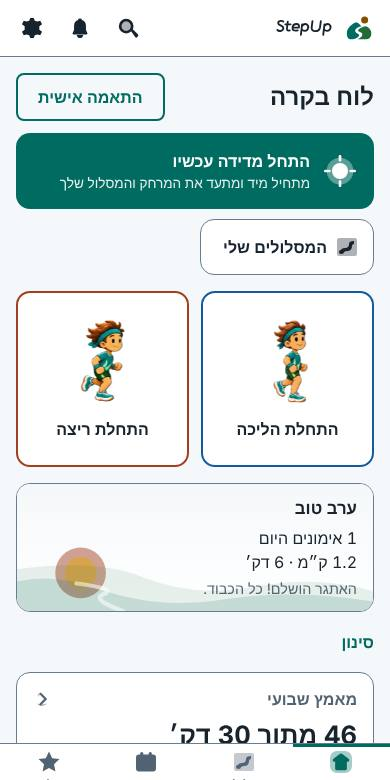
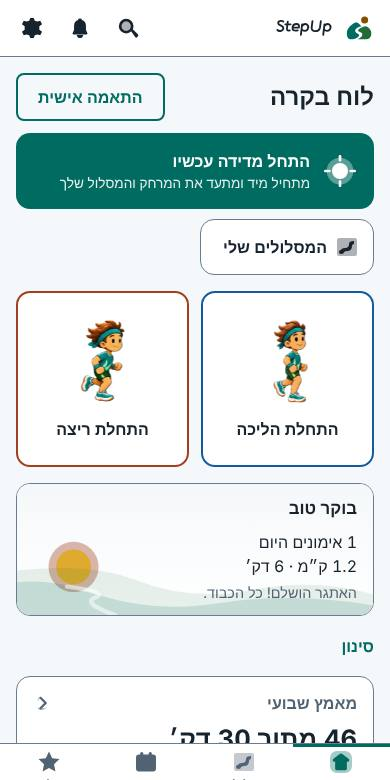
0.26.0: animated weather pictures (15 conditions from the illustrator's set) for the sky now on Home and Recommendations; the forecast also asks for the hourly weather code
Claude-Session: https://claude.ai/code/session_015MgUfxYvuaf2H4JGRA2gxD

Changed region(s): [[0.0308, 0.6462, 0.9538, 0.9538], [0.0308, 0.8615, 0.1231, 0.9231]]

diff --git a/web/sw.js b/web/sw.js
@@ -1,8 +1,8 @@
 // Offline-first service worker. VERSION is kept equal to version.json by scripts/bump-version.mjs (a unit test enforces it).
-const VERSION = '0.25.2';
+const VERSION = '0.26.0';
 const CACHE = `stepup-${VERSION}`;
 const SHELL = ['./', 'index.html', 'manifest.webmanifest', 'version.json', 'icon.svg', 'css/packs.css', 'css/app.css',
-  'js/app.js', 'js/routePlan.js', 'js/planner.js', 'js/planApi.js', 'js/ui/mapScreen.js', 'js/ui/planner.js', 'js/theme-boot.js', 'js/util.js', 'js/i18n.js', 'js/native.js', 'js/icons.js', 'js/brand.js', 'js/brandData.js', 'js/iconData.js', 'js/geo.js', 'js/workout.js', 'js/metronome.js', 'js/cadence.js', 'js/audio.js', 'js/format.js', 'js/store.js', 'js/ui/home.js', 'js/plan.js', 'js/indicators.js', 'js/appVersion.js', 'js/art.js', 'js/voice.js', 'js/records.js', 'js/facts.js', 'js/actions.js', 'js/guide.js', 'js/strings08.js', 'js/strings09.js', 'js/strings10.js', 'js/strings11.js', 'js/appShare.js', 'js/changelog.js', 'js/ui/shareApp.js', 'js/ui/whatsnew.js', 'js/permissions.js', 'js/ui/permissions.js', 'js/characterData.js', 'js/puppetRig.js', 'js/ui/puppet.js', 'js/ui/character.js', 'art/character/walk.webp', 'art/character/run.webp', 'art/character/pose-idle.webp', 'art/character/pose-jump.webp', 'art/character/pose-cheer.webp', 'art/character/pose-wave.webp', 'art/character/pose-rest.webp', 'art/character/pose-stretch.webp', 'art/character/pose-medal.webp', 'art/character/pose-trophy.webp', 'art/character/pose-podium.webp', 'art/character/pose-point.webp', 'art/character/pose-think.webp', 'art/character/pose-sit.webp', 'art/character/pose-sleep.webp', 'art/character/pose-rain.webp', 'js/ui/guide.js', 'art/workout/banner-afternoon-dark.svg', 'art/workout/banner-afternoon-light.svg', 'art/workout/banner-evening-dark.svg', 'art/workout/banner-evening-light.svg', 'art/workout/banner-morning-dark.svg', 'art/workout/banner-morning-light.svg', 'art/workout/banner-night-dark.svg', 'art/workout/banner-night-light.svg', 'art/workout/card-forest-dark.svg', 'art/workout/card-forest-light.svg', 'art/workout/card-ocean-dark.svg', 'art/workout/card-ocean-light.svg', 'art/workout/card-sunrise-dark.svg', 'art/workout/card-sunrise-light.svg', 'art/workout/count-1-dark.svg', 'art/workout/count-1-light.svg', 'art/workout/count-2-dark.svg', 'art/workout/count-2-light.svg', 'art/workout/count-3-dark.svg', 'art/workout/count-3-light.svg', 'art/workout/count-4-dark.svg', 'art/workout/count-4-light.svg', 'art/workout/count-5-dark.svg', 'art/workout/count-5-light.svg', 'art/workout/count-go-dark.svg', 'art/workout/count-go-light.svg', 'art/workout/hint-double-tap-dark.svg', 'art/workout/hint-double-tap-light.svg', 'art/workout/hint-volume-keys-dark.svg', 'art/workout/hint-volume-keys-light.svg', 'js/ui/workoutShare.js', 'js/shareCard.js', 'js/metrics.js', 'js/gpx.js', 'js/daypart.js', 'js/challenge.js', 'art/celebrate/avatar-frame-dark.svg', 'art/celebrate/avatar-frame-light.svg', 'art/celebrate/confetti-circle-dark.svg', 'art/celebrate/confetti-circle-light.svg', 'art/celebrate/confetti-curl-dark.svg', 'art/celebrate/confetti-curl-light.svg', 'art/celebrate/confetti-rectangle-dark.svg', 'art/celebrate/confetti-rectangle-light.svg', 'art/celebrate/confetti-star-dark.svg', 'art/celebrate/confetti-star-light.svg', 'art/celebrate/confetti-triangle-dark.svg', 'art/celebrate/confetti-triangle-light.svg', 'art/celebrate/distance-record-dark.svg', 'art/celebrate/distance-record-light.svg', 'art/celebrate/fastest-kilometre-dark.svg', 'art/celebrate/fastest-kilometre-light.svg', 'art/celebrate/forest-dark.svg', 'art/celebrate/forest-light.svg', 'art/celebrate/laurel-dark.svg', 'art/celebrate/laurel-light.svg', 'art/celebrate/longest-streak-dark.svg', 'art/celebrate/longest-streak-light.svg', 'art/celebrate/medal-dark.svg', 'art/celebrate/medal-light.svg', 'art/celebrate/most-workouts-week-dark.svg', 'art/celebrate/most-workouts-week-light.svg', 'art/celebrate/ocean-dark.svg', 'art/celebrate/ocean-light.svg', 'art/celebrate/pace-record-dark.svg', 'art/celebrate/pace-record-light.svg', 'art/celebrate/podium-floor-dark.svg', 'art/celebrate/podium-floor-light.svg', 'art/celebrate/podium-steps-dark.svg', 'art/celebrate/podium-steps-light.svg', 'art/celebrate/rays-dark.svg', 'art/celebrate/rays-light.svg', 'art/celebrate/ribbon-dark.svg', 'art/celebrate/ribbon-light.svg', 'art/celebrate/sunrise-dark.svg', 'art/celebrate/sunrise-light.svg', 'art/celebrate/trophy-dark.svg', 'art/celebrate/trophy-light.svg', 'js/podiumCard.js', 'js/ui/podium.js', 'js/mapView.js', 'js/ui/maptiles.js', 'js/backup.js', 'js/ui/backup.js', 'art/badges/almost-distance-dark.svg', 'art/badges/almost-distance-light.svg', 'art/badges/almost-record-dark.svg', 'art/badges/almost-record-light.svg', 'art/badges/faster-last-dark.svg', 'art/badges/faster-last-light.svg', 'art/badges/fastest-km-dark.svg', 'art/badges/fastest-km-light.svg', 'art/badges/new-record-dark.svg', 'art/badges/new-record-light.svg', 'art/badges/passed-distance-dark.svg', 'art/badges/passed-distance-light.svg', 'art/onboarding/caught-up-dark.svg', 'art/onboarding/caught-up-light.svg', 'art/onboarding/no-plan-dark.svg', 'art/onboarding/no-plan-light.svg', 'art/onboarding/no-routes-dark.svg', 'art/onboarding/no-routes-light.svg', 'art/onboarding/no-workouts-dark.svg', 'art/onboarding/no-workouts-light.svg', 'art/onboarding/offline-dark.svg', 'art/onboarding/offline-light.svg', 'art/onboarding/welcome-dark.svg', 'art/onboarding/welcome-light.svg', 'art/weather/clear-dark.svg', 'art/weather/clear-light.svg', 'art/weather/cloudy-dark.svg', 'art/weather/cloudy-light.svg', 'art/weather/cold-dark.svg', 'art/weather/cold-light.svg', 'art/weather/hot-dark.svg', 'art/weather/hot-light.svg', 'art/weather/rain-dark.svg', 'art/weather/rain-light.svg', 'art/weather/windy-dark.svg', 'art/weather/windy-light.svg', 'js/update.js', 'js/strings07.js', 'js/ui/about.js', 'js/strings06.js', 'js/ui/plan.js', 'js/schedule.js', 'js/widgetData.js', 'js/syncNative.js', 'js/strings05.js', 'js/route.js', 'js/routeReco.js', 'js/strings04.js', 'js/ui/routes.js', 'js/ui/livemap.js', 'js/forecast.js', 'js/reco.js', 'js/weatherApi.js', 'js/strings03.js', 'js/ui/reco.js', 'js/stats.js', 'js/steps.js', 'js/effort.js', 'js/reminders.js', 'js/alerts.js', 'js/search.js', 'js/charts.js', 'js/reminderLoop.js', 'js/strings02.js', 'js/ui/dashboard.js', 'js/ui/alerts.js', 'js/ui/search.js', 'js/ui/notify.js', 'js/ui/settings.js', 'js/ui/history.js', 'js/ui/workout.js', 'js/ui/rhythm.js',
+  'js/app.js', 'js/routePlan.js', 'js/planner.js', 'js/planApi.js', 'js/ui/mapScreen.js', 'js/ui/planner.js', 'js/theme-boot.js', 'js/util.js', 'js/i18n.js', 'js/native.js', 'js/icons.js', 'js/brand.js', 'js/brandData.js', 'js/iconData.js', 'js/geo.js', 'js/workout.js', 'js/metronome.js', 'js/cadence.js', 'js/audio.js', 'js/format.js', 'js/store.js', 'js/ui/home.js', 'js/plan.js', 'js/indicators.js', 'js/appVersion.js', 'js/art.js', 'js/voice.js', 'js/records.js', 'js/facts.js', 'js/actions.js', 'js/guide.js', 'js/strings08.js', 'js/strings09.js', 'js/strings10.js', 'js/strings11.js', 'js/appShare.js', 'js/changelog.js', 'js/ui/shareApp.js', 'js/ui/whatsnew.js', 'js/permissions.js', 'js/ui/permissions.js', 'js/characterData.js', 'js/puppetRig.js', 'js/ui/puppet.js', 'js/ui/character.js', 'art/character/walk.webp', 'art/character/run.webp', 'art/character/pose-idle.webp', 'art/character/pose-jump.webp', 'art/character/pose-cheer.webp', 'art/character/pose-wave.webp', 'art/character/pose-rest.webp', 'art/character/pose-stretch.webp', 'art/character/pose-medal.webp', 'art/character/pose-trophy.webp', 'art/character/pose-podium.webp', 'art/character/pose-point.webp', 'art/character/pose-think.webp', 'art/character/pose-sit.webp', 'art/character/pose-sleep.webp', 'art/character/pose-rain.webp', 'js/weatherAnim.js', 'js/weatherAnimData.js', 'js/ui/skynow.js', 'art/weather-anim/clear_day.webp', 'art/weather-anim/clear_night.webp', 'art/weather-anim/drizzle_day.webp', 'art/weather-anim/fog_day.webp', 'art/weather-anim/freezing_rain_day.webp', 'art/weather-anim/hail_day.webp', 'art/weather-anim/heavy_rain_day.webp', 'art/weather-anim/mostly_clear_day.webp', 'art/weather-anim/mostly_clear_night.webp', 'art/weather-anim/overcast_day.webp', 'art/weather-anim/partly_cloudy_day.webp', 'art/weather-anim/partly_cloudy_night.webp', 'art/weather-anim/rain_day.webp', 'art/weather-anim/snow_day.webp', 'art/weather-anim/thunderstorm_day.webp', 'js/ui/guide.js', 'art/workout/banner-afternoon-dark.svg', 'art/workout/banner-afternoon-light.svg', 'art/workout/banner-evening-dark.svg', 'art/workout/banner-evening-light.svg', 'art/workout/banner-morning-dark.svg', 'art/workout/banner-morning-light.svg', 'art/workout/banner-night-dark.svg', 'art/workout/banner-night-light.svg', 'art/workout/card-forest-dark.svg', 'art/workout/card-forest-light.svg', 'art/workout/card-ocean-dark.svg', 'art/workout/card-ocean-light.svg', 'art/workout/card-sunrise-dark.svg', 'art/workout/card-sunrise-light.svg', 'art/workout/count-1-dark.svg', 'art/workout/count-1-light.svg', 'art/workout/count-2-dark.svg', 'art/workout/count-2-light.svg', 'art/workout/count-3-dark.svg', 'art/workout/count-3-light.svg', 'art/workout/count-4-dark.svg', 'art/workout/count-4-light.svg', 'art/workout/count-5-dark.svg', 'art/workout/count-5-light.svg', 'art/workout/count-go-dark.svg', 'art/workout/count-go-light.svg', 'art/workout/hint-double-tap-dark.svg', 'art/workout/hint-double-tap-light.svg', 'art/workout/hint-volume-keys-dark.svg', 'art/workout/hint-volume-keys-light.svg', 'js/ui/workoutShare.js', 'js/shareCard.js', 'js/metrics.js', 'js/gpx.js', 'js/daypart.js', 'js/challenge.js', 'art/celebrate/avatar-frame-dark.svg', 'art/celebrate/avatar-frame-light.svg', 'art/celebrate/confetti-circle-dark.svg', 'art/celebrate/confetti-circle-light.svg', 'art/celebrate/confetti-curl-dark.svg', 'art/celebrate/confetti-curl-light.svg', 'art/celebrate/confetti-rectangle-dark.svg', 'art/celebrate/confetti-rectangle-light.svg', 'art/celebrate/confetti-star-dark.svg', 'art/celebrate/confetti-star-light.svg', 'art/celebrate/confetti-triangle-dark.svg', 'art/celebrate/confetti-triangle-light.svg', 'art/celebrate/distance-record-dark.svg', 'art/celebrate/distance-record-light.svg', 'art/celebrate/fastest-kilometre-dark.svg', 'art/celebrate/fastest-kilometre-light.svg', 'art/celebrate/forest-dark.svg', 'art/celebrate/forest-light.svg', 'art/celebrate/laurel-dark.svg', 'art/celebrate/laurel-light.svg', 'art/celebrate/longest-streak-dark.svg', 'art/celebrate/longest-streak-light.svg', 'art/celebrate/medal-dark.svg', 'art/celebrate/medal-light.svg', 'art/celebrate/most-workouts-week-dark.svg', 'art/celebrate/most-workouts-week-light.svg', 'art/celebrate/ocean-dark.svg', 'art/celebrate/ocean-light.svg', 'art/celebrate/pace-record-dark.svg', 'art/celebrate/pace-record-light.svg', 'art/celebrate/podium-floor-dark.svg', 'art/celebrate/podium-floor-light.svg', 'art/celebrate/podium-steps-dark.svg', 'art/celebrate/podium-steps-light.svg', 'art/celebrate/rays-dark.svg', 'art/celebrate/rays-light.svg', 'art/celebrate/ribbon-dark.svg', 'art/celebrate/ribbon-light.svg', 'art/celebrate/sunrise-dark.svg', 'art/celebrate/sunrise-light.svg', 'art/celebrate/trophy-dark.svg', 'art/celebrate/trophy-light.svg', 'js/podiumCard.js', 'js/ui/podium.js', 'js/mapView.js', 'js/ui/maptiles.js', 'js/backup.js', 'js/ui/backup.js', 'art/badges/almost-distance-dark.svg', 'art/badges/almost-distance-light.svg', 'art/badges/almost-record-dark.svg', 'art/badges/almost-record-light.svg', 'art/badges/faster-last-dark.svg', 'art/badges/faster-last-light.svg', 'art/badges/fastest-km-dark.svg', 'art/badges/fastest-km-light.svg', 'art/badges/new-record-dark.svg', 'art/badges/new-record-light.svg', 'art/badges/passed-distance-dark.svg', 'art/badges/passed-distance-light.svg', 'art/onboarding/caught-up-dark.svg', 'art/onboarding/caught-up-light.svg', 'art/onboarding/no-plan-dark.svg', 'art/onboarding/no-plan-light.svg', 'art/onboarding/no-routes-dark.svg', 'art/onboarding/no-routes-light.svg', 'art/onboarding/no-workouts-dark.svg', 'art/onboarding/no-workouts-light.svg', 'art/onboarding/offline-dark.svg', 'art/onboarding/offline-light.svg', 'art/onboarding/welcome-dark.svg', 'art/onboarding/welcome-light.svg', 'art/weather/clear-dark.svg', 'art/weather/clear-light.svg', 'art/weather/cloudy-dark.svg', 'art/weather/cloudy-light.svg', 'art/weather/cold-dark.svg', 'art/weather/cold-light.svg', 'art/weather/hot-dark.svg', 'art/weather/hot-light.svg', 'art/weather/rain-dark.svg', 'art/weather/rain-light.svg', 'art/weather/windy-dark.svg', 'art/weather/windy-light.svg', 'js/update.js', 'js/strings07.js', 'js/ui/about.js', 'js/strings06.js', 'js/ui/plan.js', 'js/schedule.js', 'js/widgetData.js', 'js/syncNative.js', 'js/strings05.js', 'js/route.js', 'js/routeReco.js', 'js/strings04.js', 'js/ui/routes.js', 'js/ui/livemap.js', 'js/forecast.js', 'js/reco.js', 'js/weatherApi.js', 'js/strings03.js', 'js/ui/reco.js', 'js/stats.js', 'js/steps.js', 'js/effort.js', 'js/reminders.js', 'js/alerts.js', 'js/search.js', 'js/charts.js', 'js/reminderLoop.js', 'js/strings02.js', 'js/ui/dashboard.js', 'js/ui/alerts.js', 'js/ui/search.js', 'js/ui/notify.js', 'js/ui/settings.js', 'js/ui/history.js', 'js/ui/workout.js', 'js/ui/rhythm.js',
   'icons/icon-192.png', 'icons/icon-512.png', 'icons/icon-maskable-512.png'];
 
 self.addEventListener('install', (e) => { e.waitUntil(caches.open(CACHE).then((c) => c.addAll(SHELL.map((u) => new Request(u, { cache: 'reload' })))).then(() => self.skipWaiting())); });

diff --git a/web/js/strings08.js b/web/js/strings08.js
@@ -13,7 +13,7 @@ export const EN = {
   g_drill_t: 'Details of a number', g_drill_x: 'Every widget opens to a chart, the numbers behind it and the workouts that make it up. The weekly effort bar follows your own history, never rises more than about 10 % a week and explains itself.',
   g_routes_t: 'Routes', g_routes_x: 'Save a finished workout as a route; StepUp recognises when you repeat it, shows progress per route and suggests the best route for the hour and weather. Mark a route one-time (a trip) to keep it out of the statistics. Follow a route with a ghost of your best attempt.',
   g_plan_t: 'Training plan', g_plan_x: 'Build a plan from your goal, level, sessions per week and the kinds of workouts. It grows gently, completes sessions when you do a matching workout, offers to move missed ones and can remind you.',
-  g_reco_t: 'Recommendations', g_reco_x: 'The best times to walk or run from your routine and (if you allow it) the weather forecast, plus advice from your effort bar, steps and streak. The forecast needs your approximate location and is off until you agree.',
+  g_reco_t: 'Recommendations', g_reco_x: 'The best times to walk or run from your routine and (if you allow it) the weather forecast, plus advice from your effort bar, steps and streak. The forecast needs your approximate location and is off until you agree. With online weather on, a small animated picture shows the sky now.',
   g_alerts_t: 'Alerts', g_alerts_x: 'Reminders, nudges when you have not moved, and explanations when a workout was far beyond your bar: what happened, why it matters and what to do. Android can deliver them even when the app is closed.',
   g_search_t: 'Search everything', g_search_x: 'One box finds screens, settings, actions ("start a run", "backup"), this guide, your workouts, routes, alerts and answers about your data ("longest run", "this month"). Press Enter to open the first result.',
   g_settings_t: 'Settings', g_settings_x: 'Sections open and close: look and language, about you, effort, recommendations, plan, reminders, cues, hands-free, countdown, street map, backup and updates. Searching finds any setting and opens its section.',
@@ -42,7 +42,7 @@ export const HE = {
   g_drill_t: 'פירוט של מספר', g_drill_x: 'כל ווידג׳ט נפתח לגרף, למספרים שמאחוריו ולאימונים שמרכיבים אותו. מד המאמץ השבועי נשען על ההיסטוריה שלכם, לא עולה ביותר מכ-10% בשבוע ומסביר את עצמו.',
   g_routes_t: 'מסלולים', g_routes_x: 'שומרים אימון שהסתיים כמסלול; StepUp מזהה כשחוזרים עליו, מציגה התקדמות לכל מסלול ומציעה את המסלול הטוב ביותר לשעה ולמזג האוויר. מסלול חד-פעמי (טיול) לא נכנס לסטטיסטיקה. אפשר לעקוב אחרי מסלול עם רוח של הניסיון הטוב ביותר שלכם.',
   g_plan_t: 'תוכנית אימון', g_plan_x: 'בונים תוכנית לפי מטרה, רמה, אימונים בשבוע וסוגי האימונים. היא גדלה בעדינות, משלימה אימון כשעושים אימון מתאים, מציעה להזיז אימון שהוחמץ ויכולה להזכיר.',
-  g_reco_t: 'המלצות', g_reco_x: 'הזמנים הטובים ביותר להליכה או לריצה לפי השגרה שלכם ו(אם אישרתם) תחזית מזג האוויר, וגם עצות ממד המאמץ, מהצעדים ומהרצף. התחזית צריכה את המיקום המשוער שלכם וכבויה עד שמאשרים.',
+  g_reco_t: 'המלצות', g_reco_x: 'הזמנים הטובים ביותר להליכה או לריצה לפי השגרה שלכם ו(אם אישרתם) תחזית מזג האוויר, וגם עצות ממד המאמץ, מהצעדים ומהרצף. התחזית צריכה את המיקום המשוער שלכם וכבויה עד שמאשרים. כשמזג האוויר המקוון פעיל, תמונה מונפשת קטנה מציגה את מצב השמיים עכשיו.',
   g_alerts_t: 'התראות', g_alerts_x: 'תזכורות, דחיפות כשלא זזתם, והסברים כשאימון היה גדול בהרבה ממד המאמץ: מה קרה, למה זה חשוב ומה לעשות. באנדרואיד אפשר לקבל אותן גם כשהאפליקציה סגורה.',
   g_search_t: 'חיפוש בכל דבר', g_search_x: 'תיבה אחת מוצאת מסכים, הגדרות, פעולות ("התחלת ריצה", "גיבוי"), את המדריך הזה, אימונים, מסלולים, התראות ותשובות על הנתונים שלכם ("הריצה הארוכה ביותר", "החודש"). Enter פותח את התוצאה הראשונה.',
   g_settings_t: 'הגדרות', g_settings_x: 'אזורים שנפתחים ונסגרים: מראה ושפה, עליכם, מאמץ, המלצות, תוכנית, תזכורות, אינדיקציות, ידיים חופשיות, ספירה לאחור, מפת רחובות, גיבוי ועדכונים. החיפוש מוצא כל הגדרה ופותח את האזור שלה.',

diff --git a/web/js/forecast.js b/web/js/forecast.js
@@ -3,7 +3,7 @@
 import { clamp } from './util.js';
 
 export const API = 'https://api.open-meteo.com/v1/forecast';
-export const HOURLY = ['temperature_2m', 'apparent_temperature', 'precipitation_probability', 'precipitation', 'wind_speed_10m', 'uv_index', 'is_day'];
+export const HOURLY = ['temperature_2m', 'apparent_temperature', 'precipitation_probability', 'precipitation', 'wind_speed_10m', 'uv_index', 'is_day', 'weather_code'];
 export const MAX_HOURS = 72;
 
 /** Rounds a coordinate to 2 decimals (about 1 km): enough for weather, too coarse to identify a home. */
@@ -15,7 +15,7 @@ export function forecastUrl(lat, lon) {
   return `${API}?latitude=${roundCoord(lat)}&longitude=${roundCoord(lon)}&hourly=${HOURLY.join(',')}&forecast_days=3&timezone=GMT&timeformat=unixtime`; // GMT + epoch seconds: no timezone or DST confusion between the place and the phone
 }
 
-/** json -> [{ t (ms, hour start), temp, feels (deg C), rainP (0-100), rain (mm), wind (km/h), uv, day (bool) }], oldest first, bounded. */
+/** json -> [{ t (ms, hour start), temp, feels (deg C), rainP (0-100), rain (mm), wind (km/h), uv, day (bool), code (WMO weather code 0-99, -1 = unknown) }], oldest first, bounded. */
 export function normalizeForecast(json) {
   const h = json && typeof json === 'object' ? json.hourly : null;
   if (!h || !Array.isArray(h.time)) return [];
@@ -24,7 +24,7 @@ export function normalizeForecast(json) {
   for (let i = 0; i < Math.min(h.time.length, MAX_HOURS); i++) {
     const t = Number.isFinite(h.time[i]) ? Math.floor(h.time[i] / 3600) * 3600000 : NaN; if (!(t > 1e12 && t < 4e12)) continue; // epoch seconds -> the start of that hour
     const temp = num(h.temperature_2m, i, -60, 60, NaN); if (!Number.isFinite(temp)) continue;
-    out.push({ t, temp, feels: num(h.apparent_temperature, i, -70, 70, temp), rainP: num(h.precipitation_probability, i, 0, 100), rain: num(h.precipitation, i, 0, 200), wind: num(h.wind_speed_10m, i, 0, 250), uv: num(h.uv_index, i, 0, 20), day: Number(h.is_day?.[i]) === 1 });
+    out.push({ t, temp, feels: num(h.apparent_temperature, i, -70, 70, temp), rainP: num(h.precipitation_probability, i, 0, 100), rain: num(h.precipitation, i, 0, 200), wind: num(h.wind_speed_10m, i, 0, 250), uv: num(h.uv_index, i, 0, 20), day: Number(h.is_day?.[i]) === 1, code: Number.isInteger(h.weather_code?.[i]) ? clamp(h.weather_code[i], 0, 99) : -1 });
   }
   return out;
 }
@@ -33,7 +33,7 @@ export function normalizeForecast(json) {
 export function sanitizeHours(list) {
   if (!Array.isArray(list)) return [];
   const n = (v, lo, hi) => (Number.isFinite(v) ? clamp(v, lo, hi) : 0);
-  return list.slice(0, MAX_HOURS).filter((h) => h && Number.isFinite(h.t) && h.t > 1e12 && h.t < 4e12 && Number.isFinite(h.temp)).map((h) => ({ t: h.t, temp: clamp(h.temp, -60, 60), feels: n(h.feels, -70, 70), rainP: n(h.rainP, 0, 100), rain: n(h.rain, 0, 200), wind: n(h.wind, 0, 250), uv: n(h.uv, 0, 20), day: h.day === true }));
+  return list.slice(0, MAX_HOURS).filter((h) => h && Number.isFinite(h.t) && h.t > 1e12 && h.t < 4e12 && Number.isFinite(h.temp)).map((h) => ({ t: h.t, temp: clamp(h.temp, -60, 60), feels: n(h.feels, -70, 70), rainP: n(h.rainP, 0, 100), rain: n(h.rain, 0, 200), wind: n(h.wind, 0, 250), uv: n(h.uv, 0, 20), day: h.day === true, code: Number.isInteger(h.code) ? clamp(h.code, -1, 99) : -1 }));
 }
 
 /** The weather during a workout from a forecast list: { tempC, cond } of the hour containing `ts`, or null when the list does not cover it. */
@@ -42,3 +42,8 @@ export function weatherAt(list, ts) {
 }
 /** One forecast hour as the weather record of a workout: { tempC, cond }. */
 export const weatherOfHour = (h) => ({ tempC: Math.round(h.temp), cond: h.rain > 0.2 || h.rainP >= 60 ? 'rain' : h.wind >= 30 ? 'windy' : 'clear' });
+
+/** The sky now: { tempC, code, day } of the hour containing `ts`, or null when the list does not cover it or has no weather code. */
+export function skyAt(list, ts) {
+  const h = list.find((x) => ts >= x.t && ts < x.t + 3600000); return h && h.code >= 0 ? { tempC: Math.round(h.temp), code: h.code, day: h.day } : null;
+}

diff --git a/tests/unit/weather-anim.test.js b/tests/unit/weather-anim.test.js
@@ -1,0 +1,34 @@
+import test from 'node:test';
+import assert from 'node:assert/strict';
+import { existsSync, readFileSync } from 'node:fs';
+import { conditionOf, known } from '../../web/js/weatherAnim.js';
+import { WEATHER_ANIM } from '../../web/js/weatherAnimData.js';
+import { normalizeForecast, sanitizeHours, skyAt, forecastUrl } from '../../web/js/forecast.js';
+import { STR } from '../../web/js/i18n.js';
+
+test('WMO codes map to the animated conditions; night only changes the three that have a night picture', () => {
+  assert.equal(conditionOf(0, true), 'clear_day'); assert.equal(conditionOf(0, false), 'clear_night'); assert.equal(conditionOf(1, false), 'mostly_clear_night'); assert.equal(conditionOf(2, false), 'partly_cloudy_night');
+  assert.equal(conditionOf(3, false), 'overcast_day', 'no night picture: the day one'); assert.equal(conditionOf(45, true), 'fog_day'); assert.equal(conditionOf(53, true), 'drizzle_day');
+  assert.equal(conditionOf(63, true), 'rain_day'); assert.equal(conditionOf(65, true), 'heavy_rain_day'); assert.equal(conditionOf(82, true), 'heavy_rain_day'); assert.equal(conditionOf(66, true), 'freezing_rain_day');
+  assert.equal(conditionOf(73, true), 'snow_day'); assert.equal(conditionOf(86, true), 'snow_day'); assert.equal(conditionOf(95, false), 'thunderstorm_day'); assert.equal(conditionOf(99, true), 'hail_day');
+  for (const bad of [-1, 4, 10, 100, NaN, undefined, '0']) assert.equal(conditionOf(bad, true), null, `code ${bad}`);
+  // every WMO code that Open-Meteo documents maps to a condition we have a picture for
+  for (const c of [0, 1, 2, 3, 45, 48, 51, 53, 55, 56, 57, 61, 63, 65, 66, 67, 71, 73, 75, 77, 80, 81, 82, 85, 86, 95, 96, 99]) for (const day of [true, false]) assert.ok(known(conditionOf(c, day)), `code ${c} day ${day}`);
+});
+
+test('every condition has its strip file, a name in both languages, and the strips stay small', () => {
+  assert.equal(WEATHER_ANIM.conditions.length, 15); let total = 0;
+  for (const c of WEATHER_ANIM.conditions) {
+    const f = `web/art/weather-anim/${c}.webp`; assert.ok(existsSync(f), f); total += readFileSync(f).length;
+    assert.ok(STR.en[`sky_${c}`] && STR.he[`sky_${c}`], `name of ${c} in both languages`);
+  }
+  assert.ok(total < 600 * 1024, `all strips ${Math.round(total / 1024)} KB (precached: keep them small)`);
+});
+
+test('forecast carries the weather code (clamped, -1 when missing) and skyAt finds the hour', () => {
+  assert.match(forecastUrl(32.08, 34.79), /hourly=[^&]*weather_code/);
+  const t0 = 1784084400, f = normalizeForecast({ hourly: { time: [t0, t0 + 3600, t0 + 7200], temperature_2m: [20, 21, 22], weather_code: [3, 250, 'x'], is_day: [1, 0, 1] } });
+  assert.deepEqual(f.map((h) => h.code), [3, 99, -1]);
+  assert.deepEqual(sanitizeHours([{ t: t0 * 1000, temp: 20, code: 61 }, { t: t0 * 1000 + 3600000, temp: 20, code: 'bad' }]).map((h) => h.code), [61, -1]);
+  assert.deepEqual(skyAt(f, t0 * 1000 + 100), { tempC: 20, code: 3, day: true }); assert.equal(skyAt(f, t0 * 1000 + 7300000), null, 'an hour without a code has no sky'); assert.equal(skyAt(f, 5), null);
+});

diff --git a/web/js/strings11.js b/web/js/strings11.js
@@ -3,11 +3,13 @@ export const EN = {
   shareTitle: 'Share StepUp', shareHint: 'Send a friend the web app (opens in any browser) and the Android app. Only the two links are sent - nothing about you.',
   shareWa: 'WhatsApp', shareMail: 'E-mail', shareMore: 'More...', shareCopy: 'Copy link', shareMailSubject: 'StepUp - walking and running tracker', shareClose: 'Close',
   setStepsKeep: 'Count my steps all day', setStepsKeepHint: 'Keeps a small, quiet notification so Android lets StepUp count steps while the app is closed and the widget stays current. Turn it off to count only while the app is open.',
+  skyNow: 'The sky now', sky_clear_day: 'Sunny', sky_clear_night: 'Clear night', sky_mostly_clear_day: 'Mostly sunny', sky_mostly_clear_night: 'Mostly clear', sky_partly_cloudy_day: 'Partly cloudy', sky_partly_cloudy_night: 'Partly cloudy', sky_overcast_day: 'Overcast', sky_fog_day: 'Fog', sky_drizzle_day: 'Drizzle', sky_rain_day: 'Rain', sky_heavy_rain_day: 'Heavy rain', sky_freezing_rain_day: 'Freezing rain', sky_snow_day: 'Snow', sky_thunderstorm_day: 'Thunderstorm', sky_hail_day: 'Hail',
   wnTitle: 'What is new in {v}', wnOpen: 'What is new', wnEarlier: 'Earlier versions', wnNone: 'Nothing listed for this version.', actWhatsNew: 'What is new in this version',
 };
 export const HE = {
   shareTitle: 'שיתוף StepUp', shareHint: 'שלחו לחבר את אפליקציית הרשת (נפתחת בכל דפדפן) ואת אפליקציית האנדרואיד. נשלחים רק שני הקישורים - שום דבר עליכם.',
   shareWa: 'וואטסאפ', shareMail: 'מייל', shareMore: 'עוד...', shareCopy: 'העתקת קישור', shareMailSubject: 'StepUp - מעקב הליכה וריצה', shareClose: 'סגירה',
   setStepsKeep: 'ספירת צעדים כל היום', setStepsKeepHint: 'מציג התראה קטנה ושקטה כדי ש-Android יאפשר ל-StepUp לספור צעדים כשהאפליקציה סגורה והווידג׳ט יישאר עדכני. כבו כדי לספור רק כשהאפליקציה פתוחה.',
+  skyNow: 'השמיים עכשיו', sky_clear_day: 'שמשי', sky_clear_night: 'לילה בהיר', sky_mostly_clear_day: 'שמשי ברובו', sky_mostly_clear_night: 'בהיר ברובו', sky_partly_cloudy_day: 'מעונן חלקית', sky_partly_cloudy_night: 'מעונן חלקית', sky_overcast_day: 'מעונן', sky_fog_day: 'ערפל', sky_drizzle_day: 'טפטוף', sky_rain_day: 'גשם', sky_heavy_rain_day: 'גשם חזק', sky_freezing_rain_day: 'גשם קפוא', sky_snow_day: 'שלג', sky_thunderstorm_day: 'סופת רעמים', sky_hail_day: 'ברד',
   wnTitle: 'מה חדש בגרסה {v}', wnOpen: 'מה חדש', wnEarlier: 'גרסאות קודמות', wnNone: 'אין פירוט לגרסה הזו.', actWhatsNew: 'מה חדש בגרסה הזו',
 };

diff --git a/web/js/weatherAnim.js b/web/js/weatherAnim.js
@@ -1,0 +1,29 @@
+// The animated weather pictures (the illustrator's frames, cut by scripts/make-weather-sprites.py): WMO weather code + day/night -> one of 15 looping strips.
+// Pure mapping (conditionOf) + one small element (a strip of 12 frames played with steps(), only while .anim-on: the calm switch and reduced motion stop it, see app.css).
+import { h } from './util.js';
+import { WEATHER_ANIM } from './weatherAnimData.js';
+
+const NIGHT = new Set(['clear', 'mostly_clear', 'partly_cloudy']); // only these three exist at night; the others are the same by day and by night
+/** WMO code (Open-Meteo) -> condition name, or null for an unknown code. */
+export function conditionOf(code, day = true) {
+  let c = null;
+  if (code === 0) c = 'clear'; else if (code === 1) c = 'mostly_clear'; else if (code === 2) c = 'partly_cloudy'; else if (code === 3) c = 'overcast';
+  else if (code === 45 || code === 48) c = 'fog';
+  else if (code === 51 || code === 53 || code === 55) c = 'drizzle';
+  else if (code === 56 || code === 57 || code === 66 || code === 67) c = 'freezing_rain';
+  else if (code === 61 || code === 63 || code === 80 || code === 81) c = 'rain';
+  else if (code === 65 || code === 82) c = 'heavy_rain';
+  else if ((code >= 71 && code <= 77) || code === 85 || code === 86) c = 'snow';
+  else if (code === 95) c = 'thunderstorm'; else if (code === 96 || code === 99) c = 'hail';
+  if (!c) return null;
+  return `${c}_${!day && NIGHT.has(c) ? 'night' : 'day'}`;
+}
+/** The strip's name for a condition (checked against the generated list), else null. */
+export const known = (cond) => (WEATHER_ANIM.conditions.includes(cond) ? cond : null);
+
+/** A looping weather picture, `size` px square. Decorative (alt=""). */
+export function weatherIcon(cond, size = 72, { animate = true } = {}) {
+  const c = known(cond); if (!c) return null;
+  return h('span', { class: `wxa${animate ? ' anim-on' : ''}`, 'data-cond': c, 'aria-hidden': 'true', style: { 'inline-size': `${size}px`, 'block-size': `${size}px`, '--ms': `${WEATHER_ANIM.ms}ms`, '--n': String(WEATHER_ANIM.frames) } },
+    h('img', { src: `art/weather-anim/${c}.webp`, alt: '', draggable: false, width: WEATHER_ANIM.size * WEATHER_ANIM.frames, height: WEATHER_ANIM.size }));
+}

diff --git a/web/js/ui/skynow.js b/web/js/ui/skynow.js
@@ -1,0 +1,20 @@
+// "The sky now": the animated weather picture with the temperature and a short word, from the forecast already in the cache (never a request of its own).
+import { h, setChildren } from '../util.js';
+import { t } from '../i18n.js';
+import { onlineOn, cachedForecast, fetchForecast, getLoc } from '../weatherApi.js';
+import { skyAt } from '../forecast.js';
+import { conditionOf, weatherIcon } from '../weatherAnim.js';
+
+/** A small row (picture, "18°", "Partly cloudy") or null when online weather is off, nothing is cached or the hour has no known sky. */
+export function skyNow(size = 64, now = Date.now()) {
+  if (!onlineOn()) return null;
+  const f = cachedForecast(now), sky = f?.length ? skyAt(f, now) : null, cond = sky ? conditionOf(sky.code, sky.day) : null, icon = cond ? weatherIcon(cond, size) : null;
+  return icon ? h('div', { class: 'skynow', role: 'group', 'aria-label': `${t('skyNow')}: ${sky.tempC}°, ${t(`sky_${cond}`)}` }, icon, h('div', null, h('b', { class: 'skytemp' }, `${sky.tempC}°`), h('span', { class: 'skytext' }, t(`sky_${cond}`)))) : null;
+}
+
+/** A place for the sky row that fills itself: at once from the cache, else after the forecast arrives (one cached request an hour, only with online weather on and a known position). */
+export function skySlot(size = 64, now = Date.now()) {
+  const slot = h('div', { class: 'skyslot' }), fill = () => { const e = skyNow(size, now); if (e) setChildren(slot, e); return !!e; };
+  if (!fill() && onlineOn() && getLoc()) fetchForecast({ now }).then(() => { if (slot.isConnected) fill(); }).catch(() => {});
+  return slot;
+}

diff --git a/tests/unit/reco.test.js b/tests/unit/reco.test.js
@@ -15,7 +15,7 @@ test('forecast: URL has only rounded coordinates; hostile answers are normalised
   const f = normalizeForecast({ hourly: { time: [1784084400, 'garbage', 1784088000], temperature_2m: [20, 21, 'x'], apparent_temperature: [22, 0, 0], precipitation_probability: [500, 0, 0], precipitation: [0, 0, 0], wind_speed_10m: [10, 0, 0], uv_index: [3, 0, 0], is_day: [1, 1, 1] } });
   assert.equal(f.length, 1); assert.equal(f[0].feels, 22); assert.equal(f[0].rainP, 100, 'clamped'); assert.equal(f[0].day, true);
   assert.deepEqual(normalizeForecast(null), []); assert.deepEqual(normalizeForecast({ hourly: { time: 'x' } }), []); assert.equal(normalizeForecast({ hourly: { time: new Array(500).fill(1784084400), temperature_2m: new Array(500).fill(20) } }).length, 72);
-  assert.equal(f[0].t % 3600000, 0, 'aligned to the hour'); assert.deepEqual(sanitizeHours([{ t: 1.8e12, temp: 70, feels: 'x', rainP: 500, rain: 0, wind: 0, uv: 0, day: 1 }, { t: 5, temp: 1 }, null]), [{ t: 1.8e12, temp: 60, feels: 0, rainP: 100, rain: 0, wind: 0, uv: 0, day: false }]);
+  assert.equal(f[0].t % 3600000, 0, 'aligned to the hour'); assert.deepEqual(sanitizeHours([{ t: 1.8e12, temp: 70, feels: 'x', rainP: 500, rain: 0, wind: 0, uv: 0, day: 1 }, { t: 5, temp: 1 }, null]), [{ t: 1.8e12, temp: 60, feels: 0, rainP: 100, rain: 0, wind: 0, uv: 0, day: false, code: -1 }]);
 });
 test('comfort: cool dry calm daylight is great; heat, rain, wind, darkness and UV reduce it, and the worst problem is named first', () => {
   const ok = { feels: 14, rainP: 0, rain: 0, wind: 6, uv: 2, day: true };

diff --git a/web/js/ui/reco.js b/web/js/ui/reco.js
@@ -1,6 +1,7 @@
 // Recommendations: the best times to walk/run from the forecast + the person's routine, and recommendations from the effort bar, steps and streak.
 // Screen (#/reco), dashboard widget summary and the shared body used by the drill-down. Logic lives in reco.js (pure); the network in weatherApi.js.
 import { weatherBanner } from '../art.js';
+import { skyNow, skySlot } from './skynow.js';
 import { weatherAt } from '../forecast.js';
 import { h, setChildren } from '../util.js';
 import { t } from '../i18n.js';
@@ -91,7 +92,7 @@ export function renderReco() {
   const draw = () => { box.alive = true; mountReco(box, area, { redraw: draw }); chips(); };
   const bar = h('div', { class: 'chips', role: 'group', 'aria-label': t('recoTitle') });
   const chips = () => setChildren(bar, AREAS.map((a) => h('button', { type: 'button', class: 'chip', 'data-area': a, 'aria-pressed': String(a === area), onclick: () => { area = a; draw(); } }, t(AREA_KEY[a]))));
-  const f = onlineOn() ? cachedForecast(Date.now()) : null, banner = f?.length ? weatherBanner(weatherAt(f, Date.now())) : null;
+  const f = onlineOn() ? cachedForecast(Date.now()) : null, banner = f?.length ? skyNow(96) || weatherBanner(weatherAt(f, Date.now())) : onlineOn() ? skySlot(96) : null; // the animated sky when the forecast knows it, else the picture of the kit
   setChildren(el, h('h1', null, t('recoTitle')), banner, bar, box); draw();
   el.cleanup = () => { box.alive = false; };
   return el;

diff --git a/web/css/app.css b/web/css/app.css
@@ -287,3 +287,9 @@ html[data-calm="1"] .char-cycle img { animation: none !important; } @media (pref
 .updbox { display: grid; gap: 8px; margin-block: 10px; } .updbox .row { display: flex; align-items: center; justify-content: space-between; gap: 10px; flex-wrap: wrap; } .updbox .note:empty, .updbox .upd-extra:empty { display: none; } .updbox progress { inline-size: 100%; block-size: 10px; accent-color: var(--primary); }
 
 .sheetbtns { display: flex; flex-wrap: wrap; gap: 10px; margin-block: 12px; } .permsheet details { margin-block: 12px; } .permsheet ul { padding-inline-start: 20px; }
+
+/* the animated weather pictures: a strip of 12 frames played with steps(); only while .anim-on (calm switch and reduced motion stop it) */
+.wxa { direction: ltr; overflow: hidden; position: relative; display: inline-block; flex: none; } .wxa img { display: block; block-size: 100%; inline-size: calc(var(--n) * 100%); max-inline-size: none; }
+.wxa.anim-on img { animation: wxa-strip var(--ms, 1800ms) steps(12) infinite; } @keyframes wxa-strip { to { transform: translateX(-100%); } }
+html[data-calm="1"] .wxa img { animation: none !important; } @media (prefers-reduced-motion: reduce) { .wxa img { animation: none !important; } }
+.skynow { display: flex; align-items: center; gap: 12px; margin-block: 6px; } .skynow .skytemp { font-size: 1.5rem; margin-inline-end: 8px; } .skynow .skytext { color: var(--muted); }

diff --git a/web/js/changelog.js b/web/js/changelog.js
@@ -1,5 +1,8 @@
 // "What is new", in the app's two languages: user-facing bullets only, newest first. docs/CHANGELOG.md is the developer copy (a unit test keeps the two in step).
 export const CHANGES = [
+  { v: '0.26.0',
+    en: ['New animated weather pictures: Home and Recommendations show the sky now (sunny, cloudy, rain, snow, thunderstorm...) with the temperature. They stay still in calm mode.'],
+    he: ['תמונות מזג אוויר מונפשות חדשות: במסך הבית ובהמלצות מוצג מצב השמיים עכשיו (שמשי, מעונן, גשם, שלג, סופת רעמים...) עם הטמפרטורה. במצב רגוע הן נשארות דוממות.'] },
   { v: '0.25.2',
     en: ['Steps and the steps widget now update with the app closed. A small, quiet notification keeps the step counter running; turn it off in Settings > Count my steps all day.'],
     he: ['הצעדים וווידג׳ט הצעדים מתעדכנים עכשיו גם כשהאפליקציה סגורה. התראה קטנה ושקטה שומרת על ספירת הצעדים; אפשר לכבות בהגדרות > ספירת צעדים כל היום.'] },

diff --git a/web/js/ui/dashboard.js b/web/js/ui/dashboard.js
@@ -132,10 +132,11 @@ function filterBar(c, redraw) {
 }
 
 /** A calm line at the top: a greeting and a nudge in the morning and afternoon, the day's numbers in the evening (or once you have exercised today). Not for a brand-new install. */
+import { skySlot } from './skynow.js';
 function dayCard(c) {
   if (!c.all.length) return null;
   const part = dayPart(c.now), today = todaySummary(c.all, c.now), st = challengeStatus(c.all, c.now, challengeTarget(getPref('challengeN', '3')));
-  return h('div', { class: 'card daycard', 'data-part': part }, art('workout', `banner-${part}`, 'daybanner'), h('h2', null, t(`greet_${part}`)),
+  return h('div', { class: 'card daycard', 'data-part': part }, art('workout', `banner-${part}`, 'daybanner'), h('h2', null, t(`greet_${part}`)), skySlot(56, c.now),
     leadsWithSummary(part, today) ? h('p', null, today.n ? [t('todayN', { n: today.n }), h('br'), t('todayKm', { km: today.km, min: today.minutes })] : t('todayNone')) : h('p', null, t(`hint_${part}`)),
     st.target ? h('p', { class: 'note' }, st.complete ? t('chDone') : t('chProgress', { done: st.done, target: st.target })) : null);
 }
